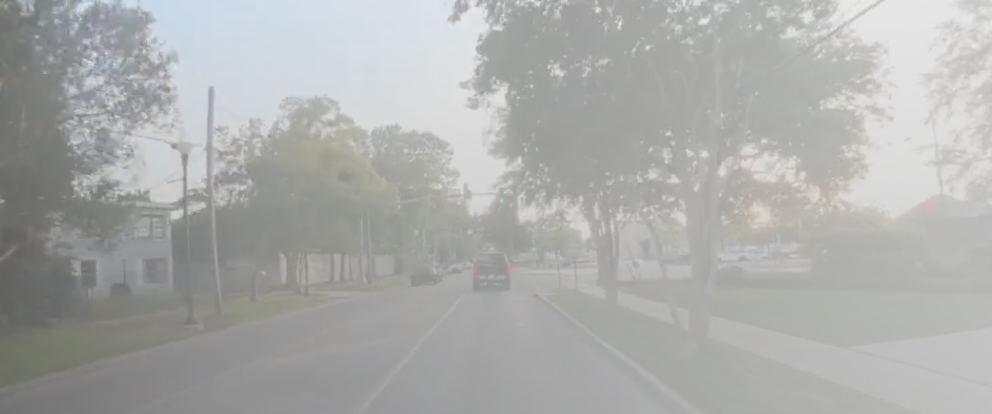
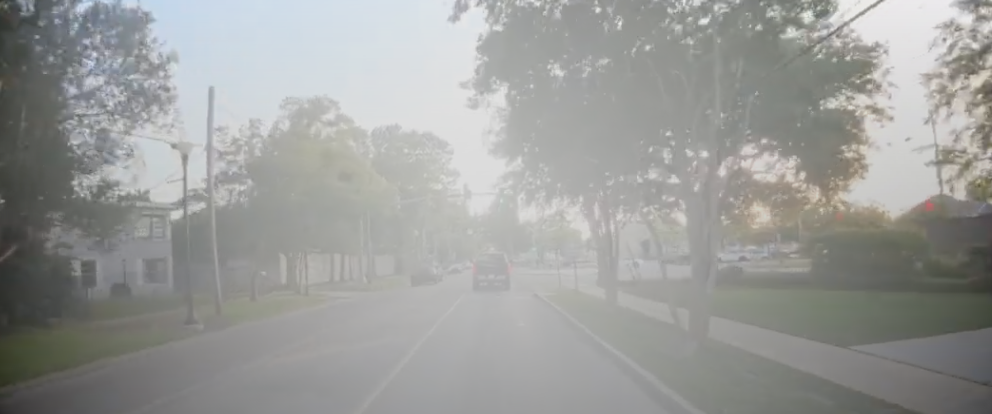
feat : update haze_filter to haze deeper the center

diff --git a/processing/dehazing/haze_filter.py b/processing/dehazing/haze_filter.py
@@ -1,14 +1,34 @@
 import cv2
 import numpy as np
 
-def apply_fog(image, beta=0.5, A=0.9):
+def apply_fog(image, beta=1.0, A=0.9):
     h, w = image.shape[:2]
-    depth = np.linspace(1, 3, w)  # 단순 깊이맵 시뮬레이션
-    depth_map = np.tile(depth, (h, 1))
+    
+    # 중심 좌표
+    center_x, center_y = w / 2, h / 2
 
-    transmission = np.exp(-beta * depth_map)
+    # 각 픽셀의 중심으로부터 거리 계산
+    y, x = np.indices((h, w))
+    distance_from_center = np.sqrt((x - center_x)**2 + (y - center_y)**2)
+
+    # 거리 정규화 (0~1)
+    max_distance = np.sqrt(center_x**2 + center_y**2)
+    normalized_depth = 1- distance_from_center / max_distance
+
+    # 전송 맵 계산
+    transmission = np.exp(-beta * normalized_depth)
     transmission = np.stack([transmission]*3, axis=-1)
 
-    foggy = image * transmission + A * 255 * (1 - transmission)
-    foggy = np.clip(foggy, 0, 255).astype(np.uint8)
+    # 안개 합성
+    foggy = image.astype(np.float32)
+    layers = 3
+    for i in range(1, layers + 1):
+        # 단계적으로 더 얕은 안개 층을 얇게 누적
+        weight = i / layers  # 0.33, 0.66, 1.0 등
+        local_depth = (1 - (distance_from_center / max_distance)) ** (1.5 * weight)
+        transmission = np.exp(-beta * local_depth)
+        transmission = np.stack([transmission]*3, axis=-1)
+
+        foggy = foggy * transmission + A * 255 * (1 - transmission)
+
     return foggy
